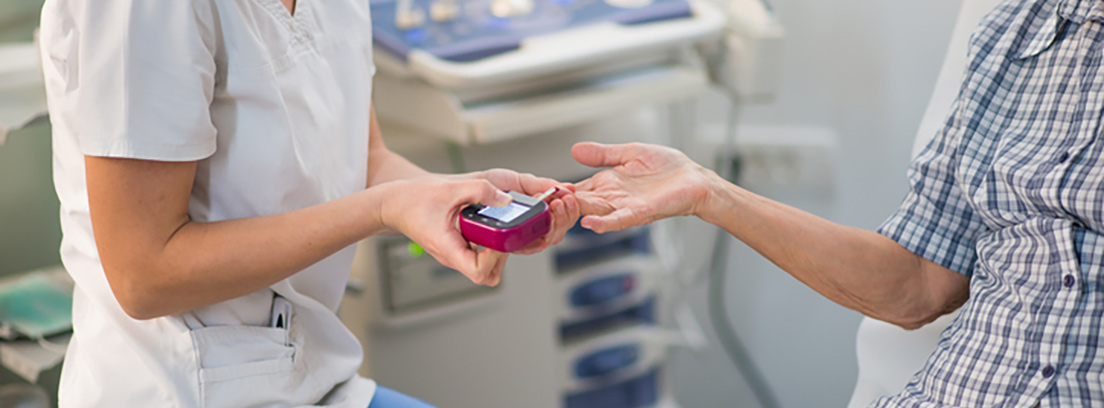
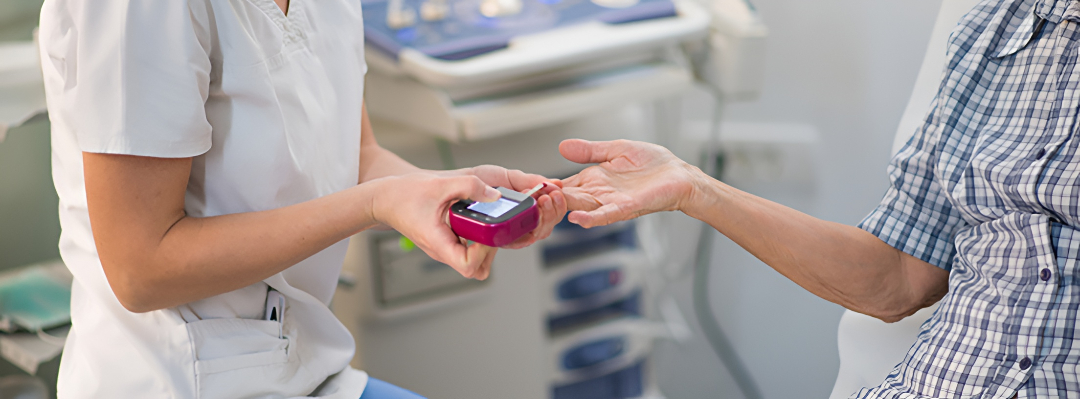
feat: carousel de servicios

diff --git a/src/app/core/services/lenguage.service.ts b/src/app/core/services/lenguage.service.ts
@@ -28,12 +28,21 @@ export class LanguageService {
       namePlaceholder: 'Tu nombre',
       emailFormLabel: 'Email',
       interestLabel: 'Interés',
-      option1: 'Diagnóstico Avanzado',
-      option2: 'Planes de Monitoreo',
-      option3: 'Consulta Especializada',
       messageLabel: 'Mensaje',
       messagePlaceholder: '¿Cómo podemos ayudarte?',
       submitBtn: 'Enviar Solicitud',
+      serviciosEspecializados: 'Servicios Especializados',
+      diagnosticoAvanzado: 'Diagnóstico Avanzado',
+      unidadNutricion: 'Unidad de Nutrición',
+      farmacovigilancia: 'Farmacovigilancia',
+      educacionDiabetologica: 'Educación Diabetológica',
+      investigacionTerapias: 'Investigación y Terapias',
+      farmaciaEspecializada: 'Farmacia Especializada',
+      rehabilitacionFisica: 'Rehabilitación Física y Ejercicio',
+      medicinaIntegrativa: 'Medicina Integrativa',
+      historialMedico: 'Historial Médico',
+      convertidorPdf: 'Convertidor a PDF',
+      controlDatos: 'Control de Datos',
     },
     en: {
       inicio: 'Home',
@@ -56,12 +65,21 @@ export class LanguageService {
       namePlaceholder: 'Your name',
       emailFormLabel: 'Email',
       interestLabel: 'Interest',
-      option1: 'Advanced Diagnosis',
-      option2: 'Monitoring Plans',
-      option3: 'Specialized Consultation',
       messageLabel: 'Message',
       messagePlaceholder: 'How can we help you?',
       submitBtn: 'Send Request',
+      serviciosEspecializados: 'Specialized Services',
+      diagnosticoAvanzado: 'Advanced Diagnosis',
+      unidadNutricion: 'Nutrition Unit',
+      farmacovigilancia: 'Pharmacovigilance',
+      educacionDiabetologica: 'Diabetes Education',
+      investigacionTerapias: 'Research and Therapies',
+      farmaciaEspecializada: 'Specialized Pharmacy',
+      rehabilitacionFisica: 'Physical Rehabilitation & Exercise',
+      medicinaIntegrativa: 'Integrative Medicine',
+      historialMedico: 'Medical Records',
+      convertidorPdf: 'PDF Converter',
+      controlDatos: 'Data Control',
     }
   };
 

diff --git a/src/app/components/services/services.css b/src/app/components/services/services.css
@@ -1,0 +1,110 @@
+.services-section {
+  width: 100%;
+  padding: 80px 20px;
+  background-color: #D7F0ED;
+  font-family: 'Poppins', sans-serif;
+  display: flex;
+  flex-direction: column;
+  align-items: center;
+  position: relative;
+  overflow: hidden;
+}
+
+.services-title {
+  font-weight: 500;
+  font-size: 2.7rem;
+  color: #1a1a1a;
+  margin-bottom: 60px;
+  text-align: center;
+}
+
+.carousel-container {
+  width: 100%;
+  max-width: 1200px;
+  display: flex;
+  justify-content: center;
+  align-items: center;
+  gap: 30px;
+  position: relative;
+}
+
+.service-card {
+  width: 100%;
+  max-width: 800px;
+  height: 500px;
+  border-radius: 50px;
+  overflow: hidden;
+  box-shadow: 0 15px 35px rgba(0, 0, 0, 0.15);
+  position: relative;
+}
+
+.service-card::after {
+  content: "";
+  position: absolute;
+  top: 0;
+  left: 0;
+  width: 100%;
+  height: 100%;
+  background: rgba(0, 0, 0, 0.15);
+  z-index: 1;
+}
+
+.card-image {
+  width: 100%;
+  height: 100%;
+  display: block;
+  object-fit: cover;
+}
+
+.card-text-overlay {
+  position: absolute;
+  top: 50%;
+  left: 50%;
+  transform: translate(-50%, -50%);
+  text-align: center;
+  width: 80%;
+  z-index: 2;
+}
+
+.card-text-overlay h3 {
+  font-weight: 500;
+  font-size: 2.3rem;
+  color: white;
+  margin: 0;
+  line-height: 1.3;
+}
+
+.carousel-control {
+  background-color: white;
+  border: none;
+  width: 60px;
+  height: 60px;
+  border-radius: 50%;
+  display: flex;
+  justify-content: center;
+  align-items: center;
+  cursor: pointer;
+  box-shadow: 0 4px 10px rgba(0, 0, 0, 0.1);
+  transition: background-color 0.3s ease;
+  z-index: 10;
+}
+
+.carousel-control:hover {
+  background-color: #f0f0f0;
+}
+
+.arrow-icon {
+  font-size: 2rem;
+  color: #a0c4c4;
+  font-weight: 300;
+}
+
+.top-left {
+  top: -150px;
+  left: -200px;
+}
+
+.bottom-right {
+  bottom: -200px;
+  right: -250px;
+}

diff --git a/src/app/components/services/services.ts b/src/app/components/services/services.ts
@@ -8,6 +8,63 @@ import {LanguageService} from '../../core/services/lenguage.service';
   styleUrl: './services.css',
 })
 export class Services {
+  servicios = [
+    {
+      titulo: 'diagnosticoAvanzado', // Usa la llave de traducción
+      imagen: './assets/diagnostico-avanzado.png'
+    },
+    {
+      titulo: 'unidadNutricion',
+      imagen: './assets/nutricion.png'
+    },
+    {
+      titulo: 'farmacovigilancia',
+      imagen: './assets/farmacovigilancia.png'
+    },
+    {
+      titulo: 'educacionDiabetologica',
+      imagen: './assets/educacion-diabetes.png'
+    },
+    {
+      titulo: 'investigacionTerapias',
+      imagen: './assets/terapias.png'
+    },
+    {
+      titulo: 'farmaciaEspecializada',
+      imagen: './assets/farmacia.png'
+    },
+    {
+      titulo: 'rehabilitacionFisica',
+      imagen: './assets/rehabilitacion.png'
+    },
+    {
+      titulo: 'medicinaIntegrativa',
+      imagen: './assets/medicina-integrativa.png'
+    },
+    {
+      titulo: 'historialMedico',
+      imagen: './assets/historial-medico.png'
+    },
+    {
+      titulo: 'convertidorPdf',
+      imagen: './assets/pdf.png'
+    },
+    {
+      titulo: 'controlDatos',
+      imagen: './assets/control-datos.png'
+    },
+  ];
+
+  indiceActual = 0;
   constructor(public langService: LanguageService) {}
+
+  // flechas
+  siguiente() {
+    this.indiceActual = (this.indiceActual + 1) % this.servicios.length;
+  }
+
+  anterior() {
+    this.indiceActual = (this.indiceActual - 1 + this.servicios.length) % this.servicios.length;
+  }
 
 }

diff --git a/src/app/components/services/services.html b/src/app/components/services/services.html
@@ -1,1 +1,29 @@
-<p>services works!</p>
+<section id="servicios-section" class="services-section">
+
+  <h2 class="services-title">
+    {{ langService.translate('serviciosEspecializados') }}
+  </h2>
+
+  <div class="carousel-container">
+    <button class="carousel-control prev" (click)="anterior()">
+      <span class="arrow-icon">&#8249;</span>
+    </button>
+
+    <div class="service-card">
+      <img [src]="servicios[indiceActual].imagen"
+           [alt]="langService.translate(servicios[indiceActual].titulo)"
+           class="card-image">
+
+      <div class="card-text-overlay">
+        <h3>
+          {{ langService.translate(servicios[indiceActual].titulo) }}
+        </h3>
+      </div>
+    </div>
+
+    <button class="carousel-control next" (click)="siguiente()">
+      <span class="arrow-icon">&#8250;</span>
+    </button>
+
+  </div>
+</section>

diff --git a/src/app/pages/pages/pages.ts b/src/app/pages/pages/pages.ts
@@ -2,13 +2,15 @@ import { Component } from '@angular/core';
 import {Contact} from "../../components/contact/contact";
 import {Hero} from "../../components/hero/hero";
 import {Navbar} from "../../shared/navbar/navbar";
+import { Services } from '../../components/services/services';
 
 @Component({
   selector: 'app-pages',
     imports: [
         Contact,
         Hero,
-        Navbar
+        Navbar,
+      Services
     ],
   templateUrl: './pages.html',
   styleUrl: './pages.css',

diff --git a/src/app/components/hero/hero.css b/src/app/components/hero/hero.css
@@ -7,8 +7,8 @@
   flex-direction: column;
 }
 .main-bg {
-  width: 100vw;      /* Ocupa todo el ancho de la pantalla */
-  height: 60vh;      /* Altura de la imagen */
+  width: 100vw;
+  height: 60vh;
   object-fit: cover;
   display: block;
 }
@@ -23,7 +23,7 @@
   flex-direction: column;
   justify-content: center;
   align-items: center;
-  padding: 4rem 2rem; /* Bajamos el padding de 10rem que era mucho */
+  padding: 4rem 2rem;
   background-color: white;
   text-align: center;
 }

diff --git a/src/app/app.ts b/src/app/app.ts
@@ -1,13 +1,11 @@
 import { Component, signal } from '@angular/core';
 import { RouterOutlet } from '@angular/router';
-import { Hero } from './components/hero/hero';
 
 @Component({
   selector: 'app-root',
-  standalone: true, // Asegúrate de que esto esté si usas Angular moderno
+  standalone: true,
   imports: [
     RouterOutlet,
-    Hero
   ],
   templateUrl: './app.html',
   styleUrl: './app.css'

diff --git a/src/app/shared/navbar/navbar.html b/src/app/shared/navbar/navbar.html
@@ -4,7 +4,7 @@
     <a href="">
       <h3>{{ langService.translate('inicio') }}</h3>
     </a>
-    <a href=""><h3>{{ langService.translate('servicios') }}</h3></a>
+    <a href="#servicios-section"><h3>{{ langService.translate('servicios') }}</h3></a>
     <a href=""><h3>{{ langService.translate('nosotros') }}</h3></a>
     <a href=""><h3>{{ langService.translate('contactanos') }}</h3></a>
   </section>

diff --git a/src/styles.css b/src/styles.css
@@ -11,3 +11,7 @@ body {
   overflow-x: hidden;
   background-color: #f8f9fa; /* Un gris casi blanco de fondo ayuda a que el diseño respire */
 }
+
+html {
+  scroll-behavior: smooth;
+}

diff --git a/src/app/pages/pages/pages.html b/src/app/pages/pages/pages.html
@@ -1,3 +1,4 @@
 <app-navbar></app-navbar>
 <app-hero></app-hero>
+<app-services></app-services>
 <app-contact></app-contact>
